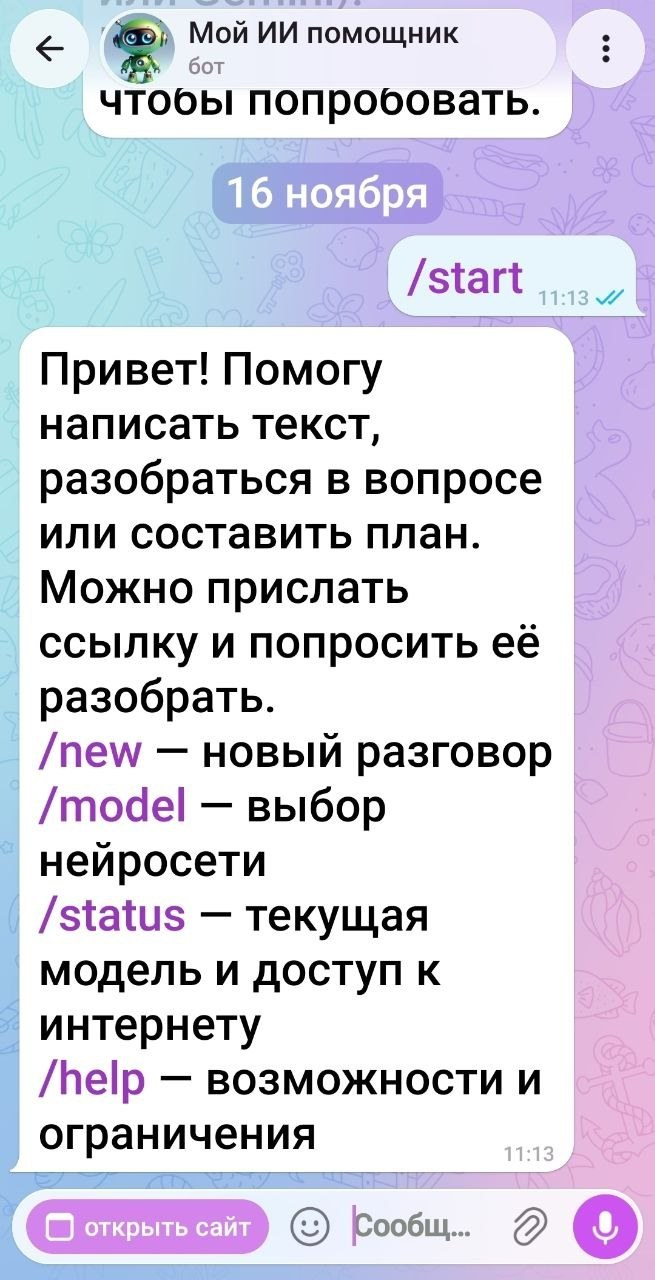
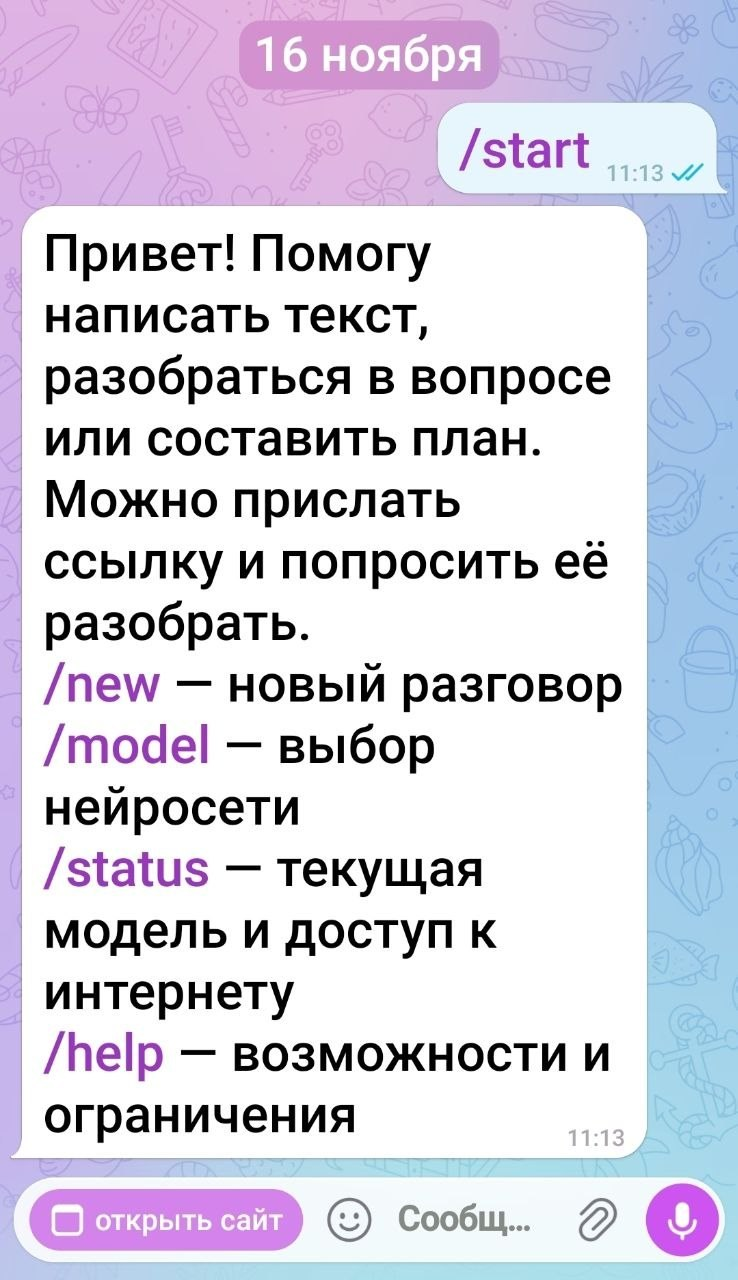
[agent] screenshots: чистый скриншот ИИ-помощника

diff --git a/index.html b/index.html
@@ -677,7 +677,7 @@ async function sendWebsiteRequest(data) {
           <figure class="telegram-preview">
             <div class="preview-label">Мой ИИ помощник в Telegram</div>
             <a class="telegram-screen" href="assets/ai-assistant/telegram-20261116.jpg" target="_blank" rel="noopener" aria-label="Открыть полный скриншот ИИ-помощника">
-              <img src="assets/ai-assistant/telegram-20261116.jpg" alt="Мой ИИ помощник в Telegram: приветствие бота и список команд" width="655" height="1280" loading="lazy" decoding="async">
+              <img src="assets/ai-assistant/telegram-20261116.jpg" alt="Мой ИИ помощник в Telegram: приветствие бота и список команд" width="738" height="1280" loading="lazy" decoding="async">
             </a>
             <figcaption>Приветствие бота и команды <span aria-hidden="true">↗</span></figcaption>
           </figure>
